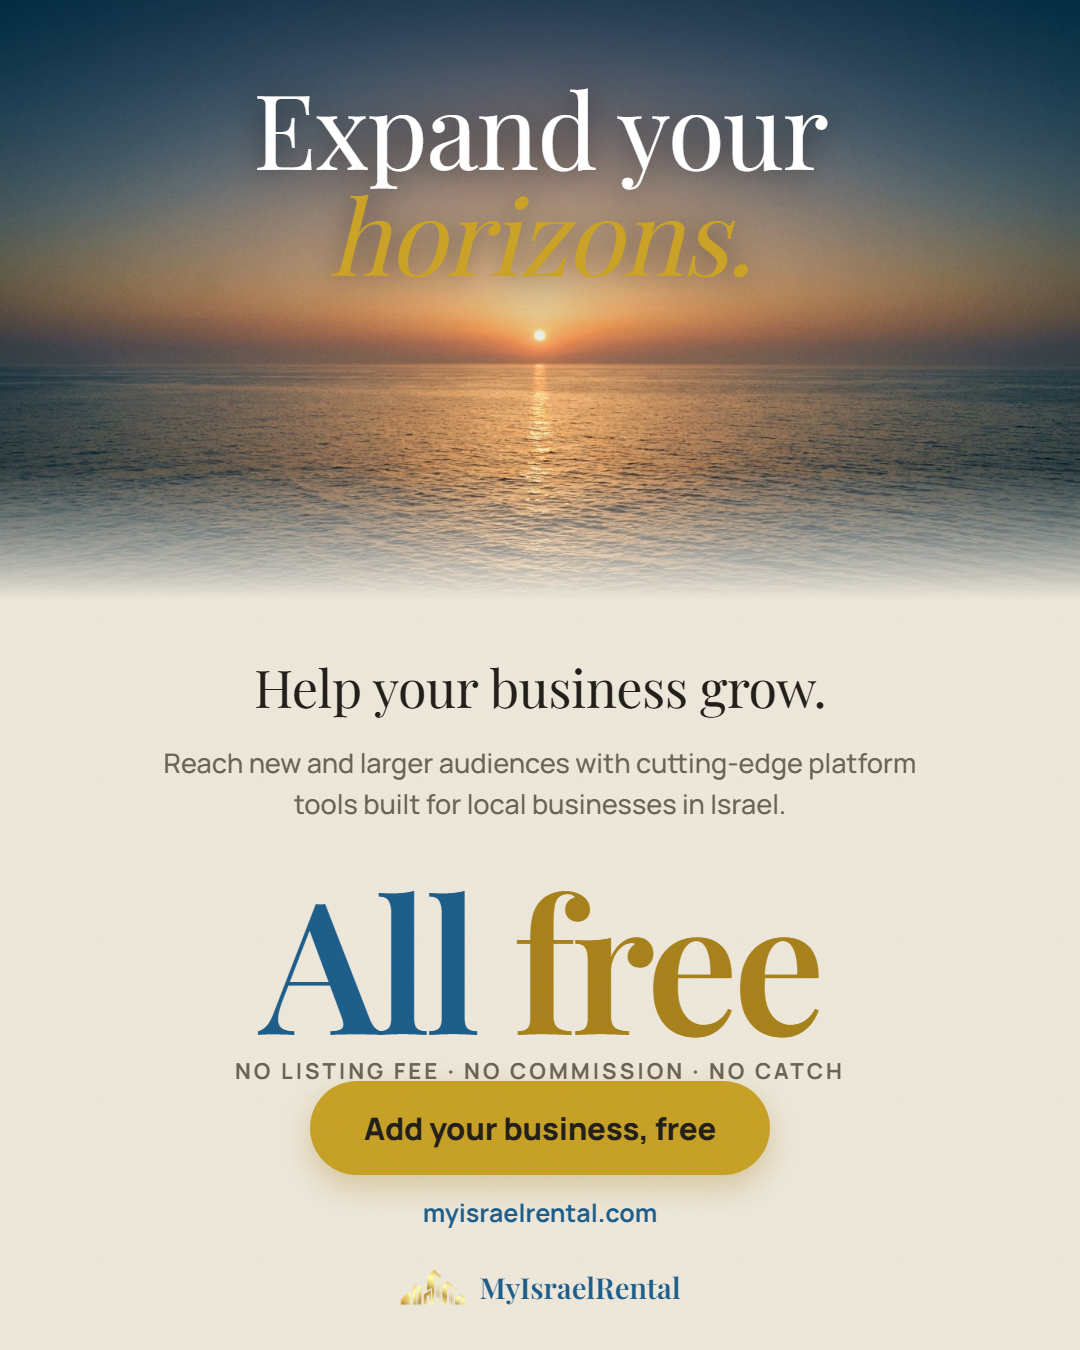
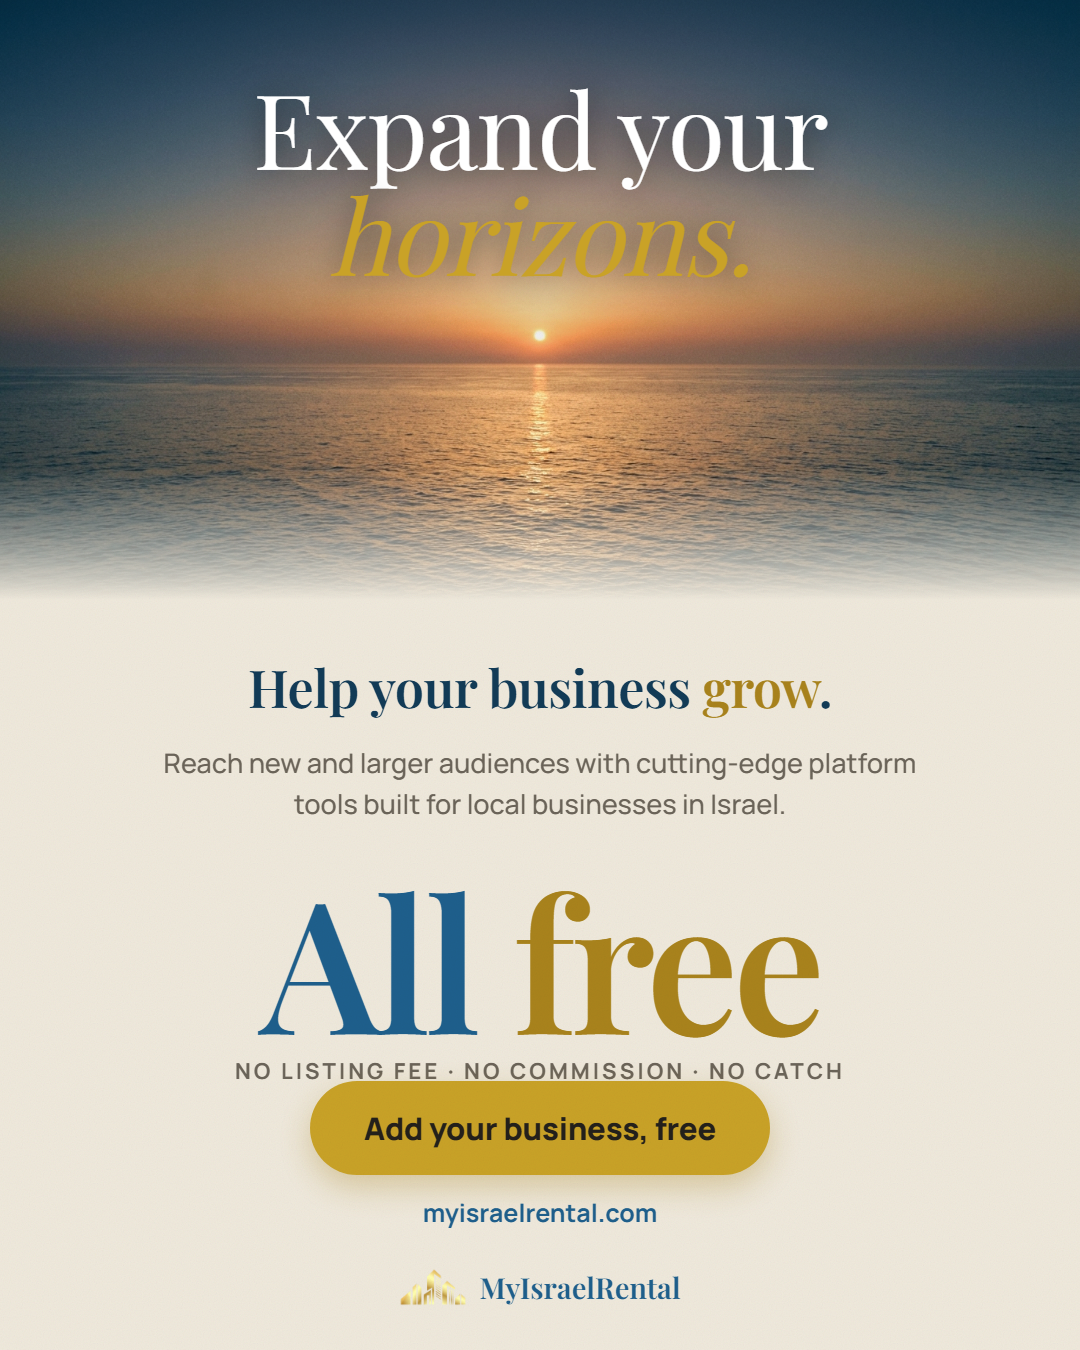
Give the ad the same gold accent word the flyer has
The two pieces ran the same line in different clothes: the flyer set
"Help your business grow." in deep blue with grow in gold, the ad set
it flat black at a lighter weight. Copied the flyer's values rather
than picking new ones — weight 600, --blue-deep, and an em in
--gold-lg held upright, since the design system wants one gold accent
word per heading and gold-lg is the large-display gold for light
backgrounds.

Confirmed in the rendered pixels, not by eye: both now put
(18,59,86) and (168,130,28) on that line.

Changed region(s): [[0.2139, 0.4978, 0.7639, 0.5289]]

diff --git a/marketing/ad-expand-your-horizons.html b/marketing/ad-expand-your-horizons.html
@@ -45,9 +45,11 @@ body{background:#5b5b5b;display:flex;flex-direction:column;align-items:center;ga
 /* --- middle: the pitch --- */
 .body{padding:56px 96px 0;text-align:center}
 .sub{
-  font-family:'Playfair Display',Georgia,serif;font-weight:400;
-  font-size:52px;line-height:1.18;letter-spacing:-.5px;color:var(--ink);
+  font-family:'Playfair Display',Georgia,serif;font-weight:600;
+  font-size:52px;line-height:1.18;letter-spacing:-.5px;color:var(--blue-deep);
 }
+/* Matches the A4 flyer: one gold accent word, upright not italic. */
+.sub em{font-style:normal;color:var(--gold-lg)}
 .lede{
   margin-top:26px;font-size:27px;line-height:1.5;color:var(--muted);
   max-width:760px;margin-left:auto;margin-right:auto;font-weight:500;
@@ -112,7 +114,7 @@ body{background:#5b5b5b;display:flex;flex-direction:column;align-items:center;ga
   </div>
 
   <div class="body">
-    <h2 class="sub">Help your business grow.</h2>
+    <h2 class="sub">Help your business <em>grow</em>.</h2>
     <p class="lede">Reach new and larger audiences with cutting-edge platform tools built for local businesses in Israel.</p>
 
     <div class="free">All <em>free</em></div>
